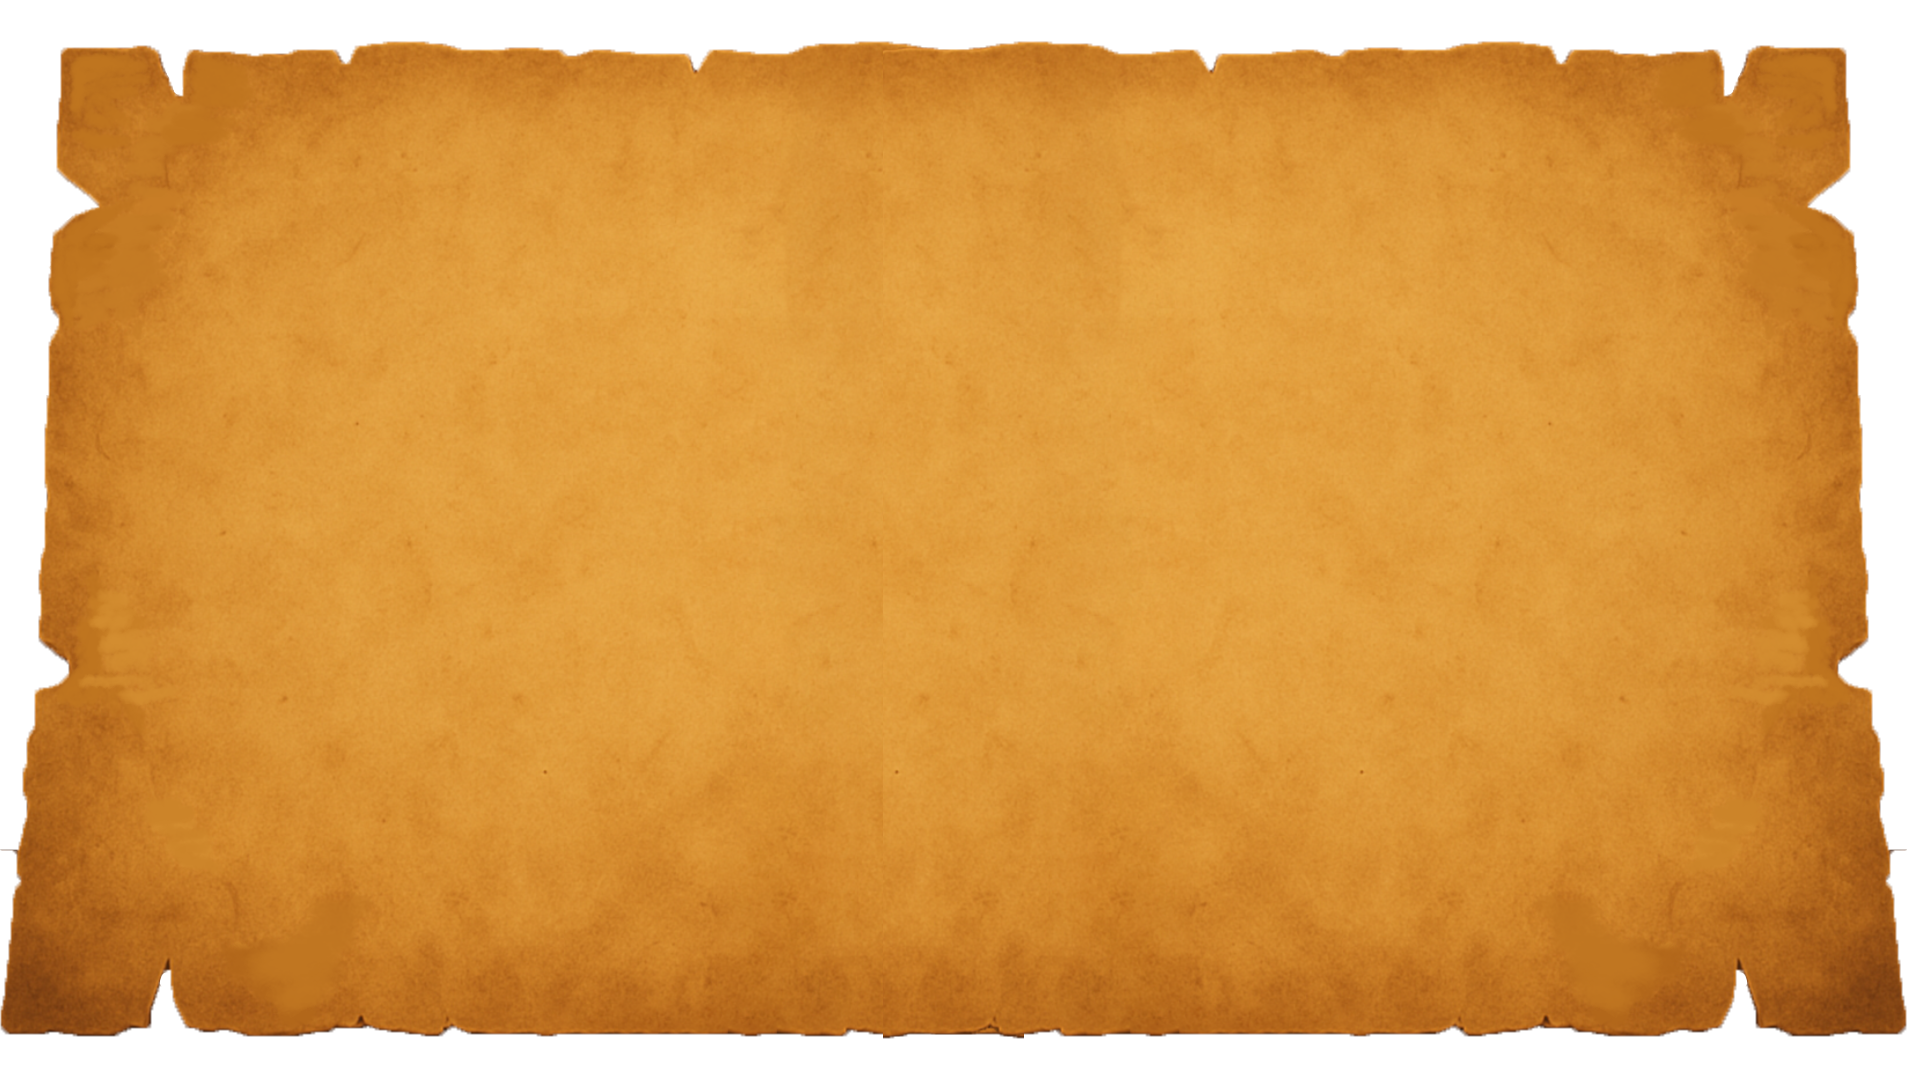
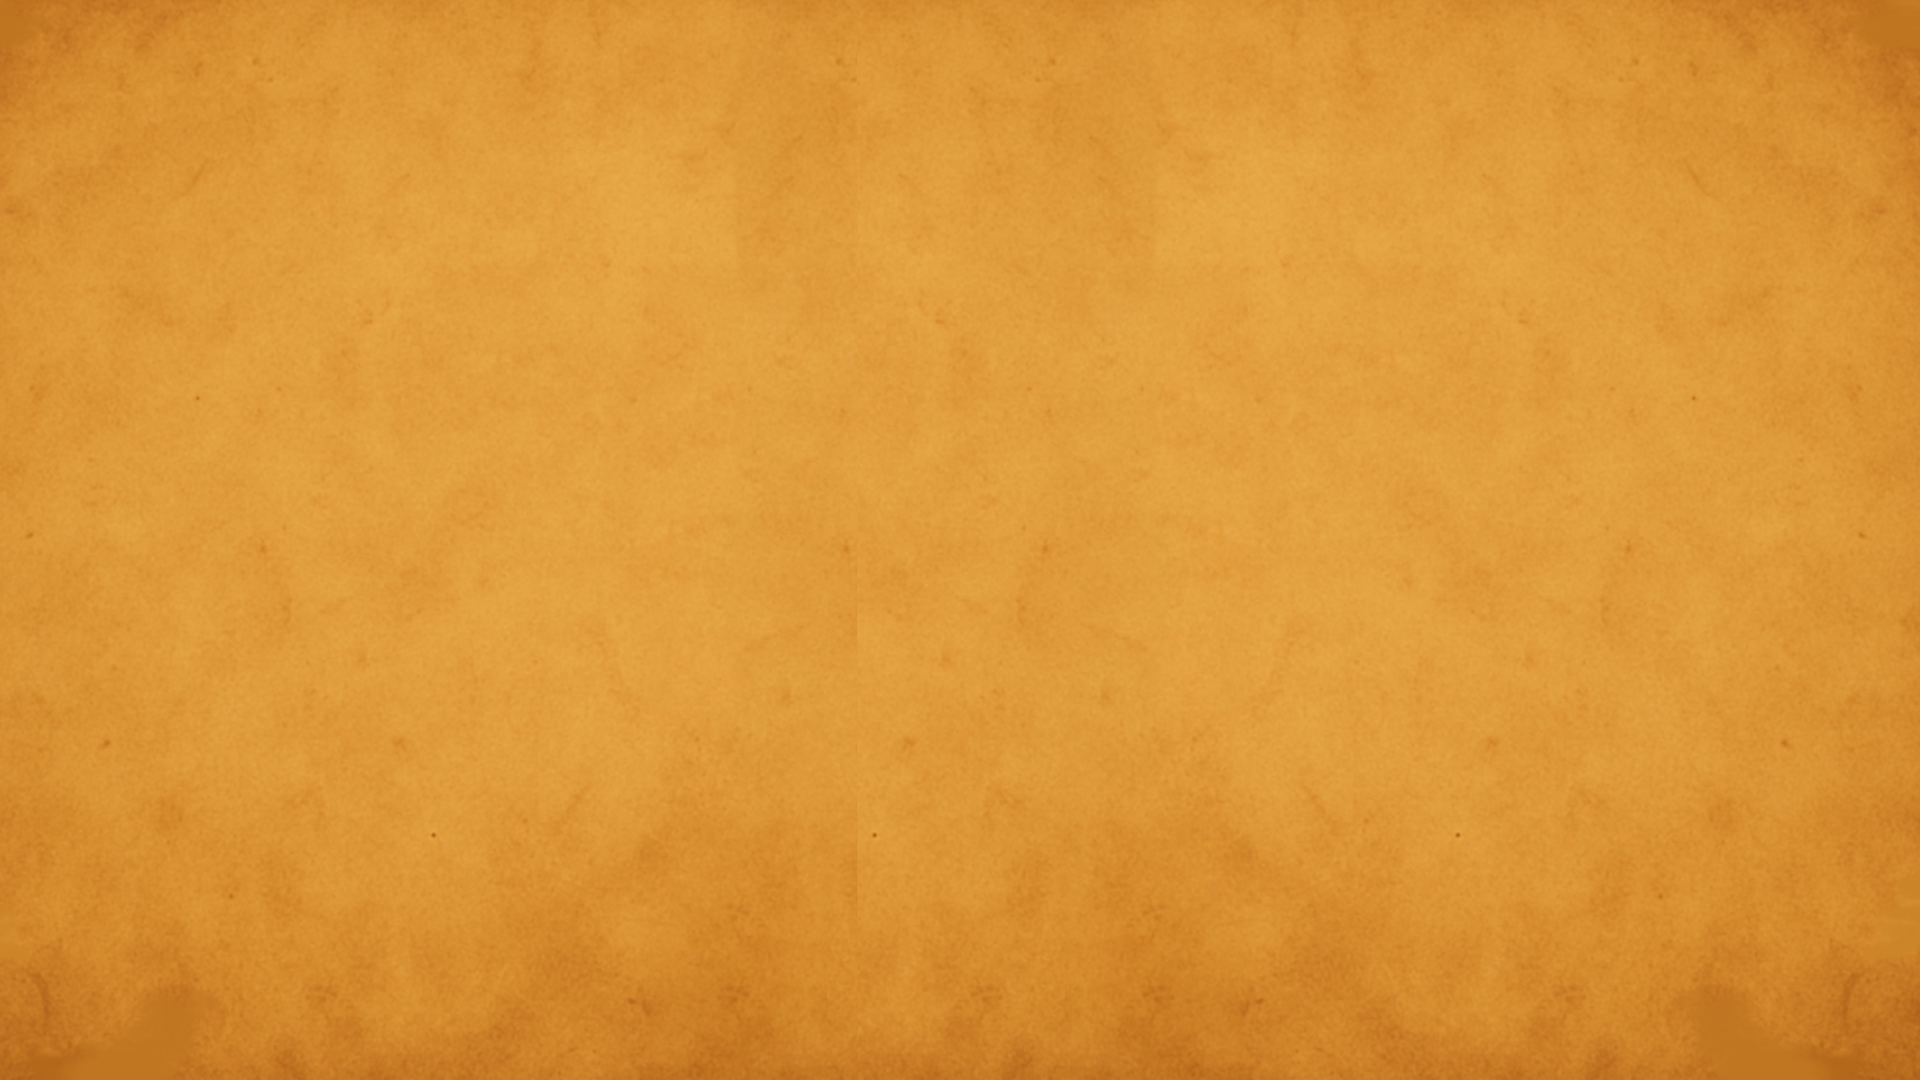
Better bg of posts

Changed region(s): [[0.0, 0.0, 1.0, 1.0]]

diff --git a/public/forum/forum.css b/public/forum/forum.css
@@ -1,6 +1,4 @@
 body {
-    font-family: Arial, sans-serif;
-    margin: 0;
     background: url("../images/planksBackground.png") ;
     background-repeat: repeat;
     background-size: 100% auto;
@@ -134,8 +132,8 @@ button:hover {
 /* Ikona usuwania (posta i komentarza) */
 .delete-icon {
     position: absolute;
-    top: 6px;
-    right: 6px;
+    top: 12px;
+    right: 12px;
     cursor: pointer;
     transition: transform 0.2s ease, opacity 0.2s ease;
 }
@@ -148,11 +146,6 @@ button:hover {
 .delete-icon.small {
     width: 16px;
     height: 16px;
-}
-
-/* Upewniamy się, że post i komentarz są relative */
-.post, .comment {
-    position: relative;
 }
 
 /* Treść posta z ograniczeniem do 4 linii */
@@ -185,23 +178,24 @@ button:hover {
 }
 
 .post, .comment {
-    padding: 10px;
-    margin-bottom: 10px;
+    position: relative;
+    padding: 25px;
     border-radius: 5px;
-    background: url("../images/post_bg.png") no-repeat center center;
+    background: url("../images/forumPostBackground.png") no-repeat center center;
+}
 
-    clip-path: polygon(
-        0% 0%, 5% 8%, 10% 2%, 15% 12%, 20% 5%, 
-        25% 15%, 30% 7%, 35% 18%, 40% 10%, 45% 20%, 
-        50% 12%, 55% 22%, 60% 15%, 65% 25%, 70% 18%, 
-        75% 28%, 80% 20%, 85% 30%, 90% 22%, 95% 32%, 
-        100% 25%, 100% 0%, 0% 0%
-    );
+.post {
+    box-shadow: 0 8px 20px rgba(0, 0, 0, 1);
+    margin-bottom: 40px;
 }
 
 .comment {
+    margin-top: 10px;
+    margin-bottom: 10px;
     margin-left: 20px;
-    background-color: #f0f0f0;
+    background: url("../images/forumCommentBackground.png") no-repeat center center;
+    box-shadow: 0 4px 4px rgba(0, 0, 0, 0.5);
+    
     font-size: 14px;
     padding: 8px;
 }
